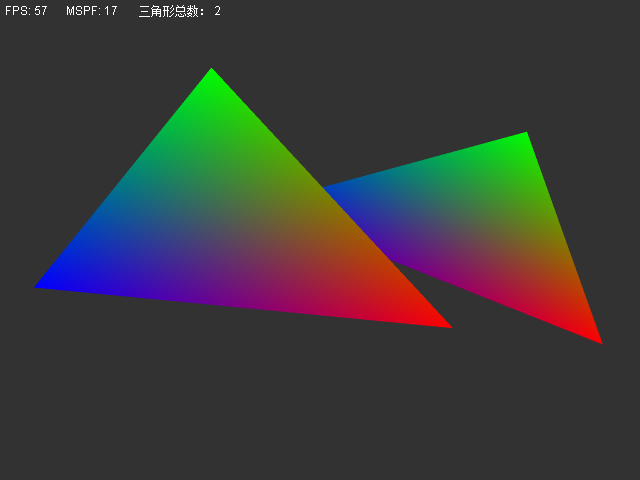
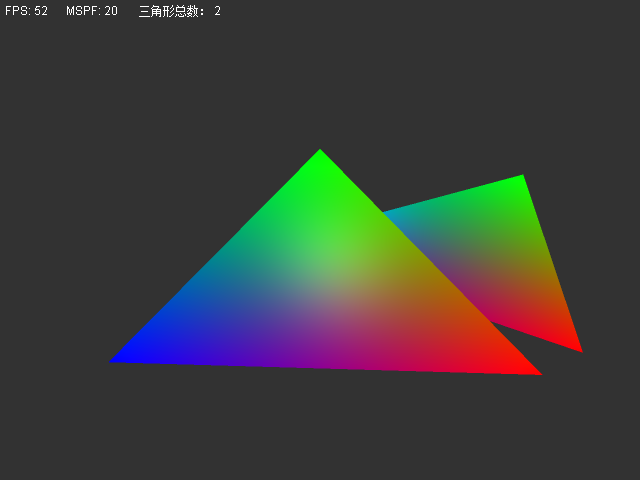
phong model

diff --git a/src/main/java/com/hb/swrender/shaders/PhongFS.java b/src/main/java/com/hb/swrender/shaders/PhongFS.java
@@ -1,0 +1,85 @@
+package com.hb.swrender.shaders;
+
+import com.hb.swrender.Camera;
+import com.hb.swrender.utils.MatrixHelper;
+import com.hb.swrender.utils.Vector3dHelper;
+import org.ejml.data.FMatrix;
+import org.ejml.data.FMatrix3;
+import org.ejml.dense.fixed.CommonOps_FDF3;
+import org.ejml.dense.fixed.CommonOps_FDF4;
+import org.ejml.dense.fixed.NormOps_FDF3;
+
+import java.util.List;
+
+public class PhongFS extends FragmentShader{
+
+    public static FMatrix3 lightColor = new FMatrix3(1,1,1);
+    public static FMatrix3 lightPos = new FMatrix3(0, 0, 5.0f);
+
+    @Override
+    public int run(List<FMatrix> params) {
+        // in vec3 Normal;
+        FMatrix3 normal = (FMatrix3) params.get(2);
+        // objectColor
+        FMatrix3 objectColor = (FMatrix3) params.get(0);
+        // in vec3 fragPos
+        FMatrix3 fragPos = (FMatrix3) params.get(1);
+
+        float ambientStrength = 0.1f;
+
+        // vec3 ambient = ambientStrength * lightColor;
+        FMatrix3 ambient = new FMatrix3();
+        CommonOps_FDF3.scale(ambientStrength, lightColor, ambient);
+
+        // vec3 norm = normalize(Normal);
+        float t1 = NormOps_FDF3.normF(normal);
+        FMatrix3 norm = new FMatrix3();
+        CommonOps_FDF3.scale(1.0f / t1, normal, norm);
+
+        // vec3 lightDir = normalize(lightPos - FragPos);
+        FMatrix3 lightDir = new FMatrix3();
+        CommonOps_FDF3.subtract(lightPos, fragPos, lightDir);
+        NormOps_FDF3.normalizeF(lightDir);
+
+        // float diff = max(dot(norm, lightDir), 0.0);
+        float diff = Math.max(CommonOps_FDF3.dot(norm, lightDir), 0f);
+
+
+
+        // vec3 diffuse = diff * lightColor;
+        FMatrix3 diffuse = new FMatrix3();
+        CommonOps_FDF3.scale(diff, lightColor, diffuse);
+
+        float specularStrength = 0.5f;
+
+        // vec3 viewDir = normalize(viewPos - FragPos);
+        FMatrix3 viewDir = new FMatrix3();
+        CommonOps_FDF3.subtract(Camera.position, fragPos, viewDir);
+        NormOps_FDF3.normalizeF(viewDir);
+
+
+        // vec3 reflectDir = reflect(-lightDir, norm);
+        FMatrix3 nLightDir = new FMatrix3();
+        CommonOps_FDF3.scale(-1, lightDir, nLightDir);
+        FMatrix3 reflectDir = Vector3dHelper.reflect(nLightDir, norm);
+
+
+
+        // float spec = pow(max(dot(viewDir, reflectDir), 0.0), 32);
+        float t = Math.max(CommonOps_FDF3.dot(viewDir, reflectDir), 0.0f);
+        float spec = (float) Math.pow(t, 64);
+
+        // vec3 specular = specularStrength * spec * lightColor;
+        FMatrix3 specular = new FMatrix3();
+        CommonOps_FDF3.scale(specularStrength * spec, lightColor, specular);
+
+        // vec3 result = (ambient + diffuse + specular) * objectColor;
+        FMatrix3 tmp1 = new FMatrix3();
+        FMatrix3 result = new FMatrix3();
+        CommonOps_FDF3.add(ambient, diffuse, tmp1);
+        CommonOps_FDF3.addEquals(tmp1, specular);
+        CommonOps_FDF3.elementMult(tmp1, objectColor, result);
+        // FragColor = vec4(result, 1.0);
+        return MatrixHelper.vecColorToInt(result);
+    }
+}

diff --git a/src/main/java/com/hb/swrender/objects/SquareObject.java b/src/main/java/com/hb/swrender/objects/SquareObject.java
@@ -1,6 +1,7 @@
-package com.hb.swrender.objects.square;
+package com.hb.swrender.objects;
 
 import com.hb.swrender.shaders.*;
+import com.hb.swrender.utils.Vector3dHelper;
 import org.ejml.data.FMatrix3;
 import org.ejml.data.FMatrix4x4;
 import com.hb.swrender.objects.RenderableObject;
@@ -10,6 +11,7 @@ import java.util.LinkedList;
 public class SquareObject extends RenderableObject {
     private VertexBuffer[] myVBO;
     private int[] myVAO;
+
 
     private FMatrix4x4 modelMatrix;
 
@@ -41,8 +43,19 @@ public class SquareObject extends RenderableObject {
         myVBO[5].shaderParams.add(new FMatrix3(-1, 0.5f, -5));
 
         //myVAO = new int[]{0,2,3,0,1,2};
-        //myVAO = new int[]{0,1,2,3,4,5};
         myVAO = new int[]{2,1,0,5,4,3};
+
+        for(int i = 0; i < myVAO.length; i += 3){
+            FMatrix3 norm = Vector3dHelper.triangleNormCompute((FMatrix3) myVBO[myVAO[i]].shaderParams.get(0),
+                    (FMatrix3) myVBO[myVAO[i + 1]].shaderParams.get(0),
+                    (FMatrix3) myVBO[myVAO[i + 2]].shaderParams.get(0));
+
+            for(int j = 0; j < 3; ++j){
+                myVBO[myVAO[i+j]].shaderParams.add(norm);
+            }
+
+        }
+
         modelMatrix = new FMatrix4x4(1,0,0,0,
                 0,1,0,0,
                 0,0,1,0,
@@ -61,20 +74,17 @@ public class SquareObject extends RenderableObject {
 
     @Override
     public FragmentShader getFragmentShader(int i) {
-//        if(i == 0)
-//            return new SimpleFS(114514);
-//        else if(i == 1)
-//            return new SimpleFS(12179950);
-        return new GradientFS();
+        // return new GradientFS();
+        return new PhongFS();
     }
 
     @Override
     public VertexShader getVertexShader(int i) {
 //        return new SimpleVS(modelMatrix);
         return switch (i % 3) {
-            case 0 -> new GradientVS(modelMatrix, 255 << 16);
-            case 1 -> new GradientVS(modelMatrix, 255 << 8);
-            case 2 -> new GradientVS(modelMatrix, 255);
+            case 0 -> new PhongVS(modelMatrix, 255 << 16);
+            case 1 -> new PhongVS(modelMatrix, 255 << 8);
+            case 2 -> new PhongVS(modelMatrix, 255);
             default -> new GradientVS(modelMatrix, 114514);
         };
     }

diff --git a/src/main/java/com/hb/swrender/shaders/PhongVS.java b/src/main/java/com/hb/swrender/shaders/PhongVS.java
@@ -1,0 +1,39 @@
+package com.hb.swrender.shaders;
+
+import com.hb.swrender.utils.MatrixHelper;
+import org.ejml.data.FMatrix;
+import org.ejml.data.FMatrix3;
+import org.ejml.data.FMatrix4;
+import org.ejml.data.FMatrix4x4;
+import org.ejml.dense.fixed.CommonOps_FDF3;
+import org.ejml.dense.fixed.CommonOps_FDF4;
+
+import java.util.ArrayList;
+import java.util.List;
+
+public class PhongVS extends VertexShader{
+
+    private FMatrix4x4 worldPos;
+    private FMatrix3 color;
+    // 按照普通的投影几何将当前顶点转换到裁切空间
+    public PhongVS(FMatrix4x4 worldPos, int color){
+        this.worldPos = worldPos;
+        this.color = new FMatrix3(color >> 16, (color & 0x00ff00) >> 8, color & 0x0000ff);
+    }
+    @Override
+    public FMatrix4 run(List<FMatrix> params) {
+        FMatrix4 pos = MatrixHelper.calcPerspective(worldPos, (FMatrix3) params.get(0));
+        result = new ArrayList<>(3);
+        result.add(this.color);
+
+        FMatrix3 vPos = (FMatrix3) params.get(0);
+        FMatrix4 fragPos4d = new FMatrix4();
+        CommonOps_FDF4.mult(worldPos, new FMatrix4(vPos.a1, vPos.a2, vPos.a3, 1), fragPos4d);
+        FMatrix3 fragPos = new FMatrix3(fragPos4d.a1, fragPos4d.a2, fragPos4d.a3);
+        result.add(fragPos);
+        // normal
+        result.add(params.get(1));
+
+        return pos;
+    }
+}

diff --git a/src/main/java/com/hb/swrender/utils/Vector3dHelper.java b/src/main/java/com/hb/swrender/utils/Vector3dHelper.java
@@ -1,6 +1,7 @@
 package com.hb.swrender.utils;
 
 import org.ejml.data.FMatrix3;
+import org.ejml.dense.fixed.CommonOps_FDF3;
 
 public class Vector3dHelper {
     //矢量在 vec.a1 vec.a2, vec.a3 轴上的分量
@@ -65,6 +66,30 @@ public class Vector3dHelper {
     public static FMatrix3 cross(FMatrix3 a, FMatrix3 b) {
         FMatrix3 ans = new FMatrix3(a.a2*b.a3 - a.a3*b.a2, a.a3*b.a1 - a.a1*b.a3, a.a1*b.a2 - a.a2*b.a1);
         return ans;
+    }
+
+    public static FMatrix3 reflect(FMatrix3 incident, FMatrix3 normal){
+        // I - 2.0 * dot(N, I) * N
+        float d = CommonOps_FDF3.dot(normal, incident);
+        float a = 2.0f * d;
+        FMatrix3 m = new FMatrix3();
+        CommonOps_FDF3.scale(a, normal, m);
+        FMatrix3 result = new FMatrix3();
+        CommonOps_FDF3.subtract(incident, m, result);
+        return result;
+    }
+
+    public static FMatrix3 triangleNormCompute(FMatrix3 v1, FMatrix3 v2, FMatrix3 v3){
+        FMatrix3 edge1 = new FMatrix3();
+        FMatrix3 edge2 = new FMatrix3();
+
+        edge1.setTo(v1);
+        CommonOps_FDF3.subtractEquals(edge1, v2);
+        edge2.setTo(v3);
+        CommonOps_FDF3.subtractEquals(edge2, v1);
+
+        FMatrix3 surfaceNormal = Vector3dHelper.cross(edge1, edge2);
+        return surfaceNormal;
     }
 
 }

diff --git a/src/main/java/com/hb/swrender/Main.java b/src/main/java/com/hb/swrender/Main.java
@@ -1,6 +1,6 @@
 package com.hb.swrender;
 
-import com.hb.swrender.objects.square.SquareObject;
+import com.hb.swrender.objects.SquareObject;
 
 import javax.swing.*;
 import java.awt.event.KeyAdapter;
